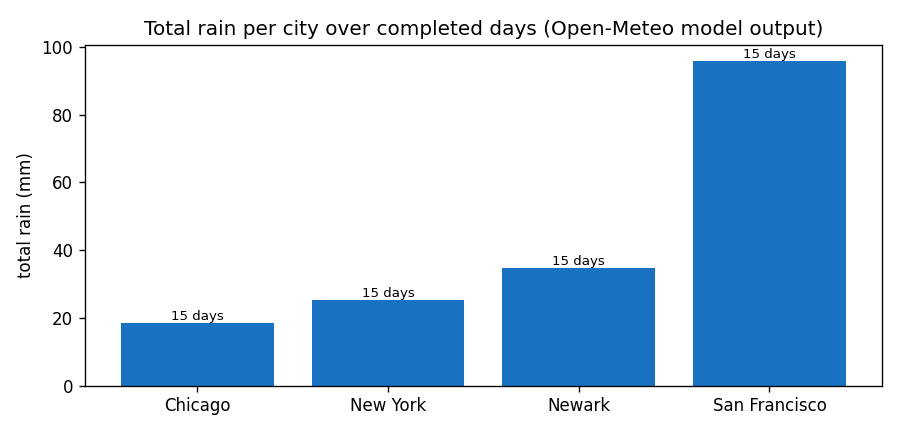
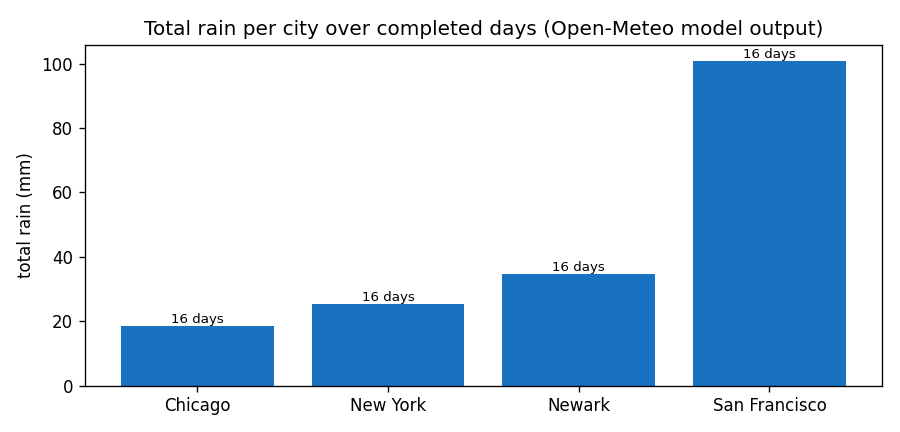
Add day-to-day temperature volatility; refresh data

diff --git a/src/weatherwh/dashboard.py b/src/weatherwh/dashboard.py
@@ -183,6 +183,32 @@ def windiest_days(con, now_utc: dt.datetime | None = None, n: int = 5) -> list[d
     return out[:n]
 
 
+def temperature_volatility(con, now_utc: dt.datetime | None = None) -> list[dict]:
+    """Per city over completed days: mean absolute change in daily average
+    temperature between consecutive days (C) and the largest single-day swing
+    with its date. Gaps in days are not bridged (only calendar-adjacent days
+    count). Model output, current window only."""
+    from .extremes import day_status
+
+    rows = con.execute(
+        "SELECT city, day, avg_temp_c FROM mart_daily_city "
+        "WHERE avg_temp_c IS NOT NULL ORDER BY city, day").fetchall()
+    per: dict[str, list] = {}
+    for city, day, avg in rows:
+        if day_status(city, day, now_utc) == "complete":
+            per.setdefault(city, []).append((day, avg))
+    out = []
+    for city, days in sorted(per.items()):
+        swings = [(abs(b[1] - a[1]), b[0]) for a, b in zip(days, days[1:]) if (b[0] - a[0]).days == 1]
+        if not swings:
+            continue
+        big = max(swings, key=lambda x: (x[0], x[1]))
+        out.append({"city": city, "pairs": len(swings),
+                    "mean_change_c": round(sum(x[0] for x in swings) / len(swings), 2),
+                    "max_change_c": round(big[0], 2), "max_change_day": big[1]})
+    return out
+
+
 def plot_rain_totals(con, out_path, now_utc: dt.datetime | None = None, wet_days: bool = True) -> bool:
     """Total rain per city over completed days only (in-progress days include
     forecast hours and would skew totals). Bars annotated with the number of
@@ -322,6 +348,13 @@ def render_markdown(con, generated_at: dt.datetime | None = None) -> str:
                   "| City | Day | Max wind (km/h) |", "| --- | --- | ---: |"]
         for w in windy:
             lines.append(f"| {w['city']} | {w['day']} | {w['max_wind_kmh']} |")
+    vol = temperature_volatility(con)
+    if vol:
+        lines += ["", "## Day-to-day temperature volatility", "",
+                  "Mean absolute change in daily average temperature between consecutive completed days. Model output, current window only.", "",
+                  "| City | Day pairs | Mean change (C) | Largest swing (C) | On |", "| --- | ---: | ---: | ---: | --- |"]
+        for v in vol:
+            lines.append(f"| {v['city']} | {v['pairs']} | {v['mean_change_c']} | {v['max_change_c']} | {v['max_change_day']} |")
     lines += ["", "![Total rain per city](rain_totals.png)", ""]
     lines += ["", "![Daily temperature range by city](temp_range_by_city.png)", ""]
     severe = extremes.severe_days(con)[:8]

diff --git a/tests/test_extremes.py b/tests/test_extremes.py
@@ -288,3 +288,19 @@ def test_windiest_days_order_and_in_progress_excluded():
     assert dashboard.windiest_days(con, now_utc=now, n=1)[0]["city"] == "B"
     assert dashboard.windiest_days(_empty()) == []
     con.close()
+
+
+def test_temperature_volatility_adjacent_days_only():
+    con = warehouse.connect(":memory:")
+    rows = [{"city": "A", "hour": T0 + dt.timedelta(days=d), "ingested_at": T0,
+             "temperature_2m": t, "precipitation": 0.0, "wind_speed_10m": 5.0}
+            for d, t in [(0, 10.0), (1, 14.0), (2, 13.0), (5, 30.0)]]      # day 5 not adjacent to day 2
+    rows += [{"city": "B", "hour": T0, "ingested_at": T0, "temperature_2m": 5.0,
+              "precipitation": 0.0, "wind_speed_10m": 5.0}]                 # single day: omitted
+    warehouse.refresh(con, rows)
+    now = dt.datetime(2026, 11, 10, 12, tzinfo=dt.timezone.utc)
+    out = dashboard.temperature_volatility(con, now_utc=now)
+    assert out == [{"city": "A", "pairs": 2, "mean_change_c": 2.5, "max_change_c": 4.0,
+                    "max_change_day": dt.date(2026, 11, 2)}]
+    assert dashboard.temperature_volatility(_empty()) == []
+    con.close()

diff --git a/reports/dashboard.md b/reports/dashboard.md
@@ -1,13 +1,17 @@
 # Weather Warehouse - daily dashboard
 
-Generated 2026-11-24 20:05 UTC.
+Generated 2026-11-25 12:04 UTC.
 
 | city | day | avg_temp_c | min_temp_c | max_temp_c | total_precip_mm | max_wind_kmh | hours_observed |
 | --- | --- | --- | --- | --- | --- | --- | --- |
-| Chicago | 2026-11-24 | 1.28 | -1.8 | 4.1 | 0.0 | 19.1 | 24 |
-| New York | 2026-11-24 | 6.35 | 0.6 | 9.9 | 0.0 | 23.5 | 24 |
-| Newark | 2026-11-24 | 6.71 | 1.2 | 10.0 | 0.0 | 24.6 | 24 |
-| San Francisco | 2026-11-24 | 11.45 | 7.9 | 15.3 | 0.4 | 21.7 | 24 |
+| Chicago | 2026-11-25 | 2.96 | 0.8 | 4.9 | 0.0 | 27.9 | 24 |
+| New York | 2026-11-25 | 4.08 | -0.5 | 7.9 | 0.0 | 17.5 | 24 |
+| Newark | 2026-11-25 | 3.96 | -0.6 | 7.8 | 0.0 | 17.3 | 24 |
+| San Francisco | 2026-11-25 | 13.19 | 11.4 | 15.0 | 3.3 | 9.4 | 24 |
+| Chicago | 2026-11-24 | 1.35 | -1.8 | 4.5 | 0.0 | 18.8 | 24 |
+| New York | 2026-11-24 | 6.8 | 2.1 | 10.0 | 0.0 | 23.5 | 24 |
+| Newark | 2026-11-24 | 7.12 | 2.6 | 10.1 | 0.0 | 24.6 | 24 |
+| San Francisco | 2026-11-24 | 11.52 | 7.9 | 14.9 | 5.0 | 10.4 | 24 |
 | Chicago | 2026-11-23 | 1.32 | -1.1 | 5.5 | 0.0 | 16.6 | 24 |
 | New York | 2026-11-23 | 15.39 | 10.2 | 20.9 | 0.0 | 20.6 | 24 |
 | Newark | 2026-11-23 | 15.54 | 10.5 | 21.5 | 0.0 | 20.2 | 24 |
@@ -30,10 +34,6 @@ Generated 2026-11-24 20:05 UTC.
 | San Francisco | 2026-11-19 | 10.85 | 8.8 | 12.7 | 10.1 | 15.9 | 24 |
 | Chicago | 2026-11-18 | 7.84 | 2.6 | 15.5 | 0.0 | 18.4 | 24 |
 | New York | 2026-11-18 | 10.6 | 5.1 | 18.4 | 0.0 | 9.3 | 24 |
-| Newark | 2026-11-18 | 10.43 | 3.1 | 19.3 | 0.0 | 10.5 | 24 |
-| San Francisco | 2026-11-18 | 11.58 | 10.4 | 13.6 | 46.4 | 29.3 | 24 |
-| Chicago | 2026-11-17 | 5.49 | 0.5 | 12.5 | 0.0 | 11.3 | 24 |
-| New York | 2026-11-17 | 8.38 | 3.1 | 14.8 | 0.0 | 11.3 | 24 |
 
 ## Heat / cold exposure (current window)
 
@@ -41,20 +41,10 @@ Hours at or above 30C / at or below 0C and degree-hours beyond each threshold. I
 
 | city | heat hours | cold hours | heat degree-hours | cold degree-hours |
 | --- | ---: | ---: | ---: | ---: |
-| Chicago | 0 | 36 | 0.0 | 26.3 |
-| New York | 0 | 0 | 0.0 | 0.0 |
-| Newark | 0 | 0 | 0.0 | 0.0 |
+| Chicago | 0 | 19 | 0.0 | 20.3 |
+| New York | 0 | 3 | 0.0 | 0.8 |
+| Newark | 0 | 3 | 0.0 | 1.4 |
 | San Francisco | 0 | 0 | 0.0 | 0.0 |
-
-## Unusual days
-
-Completed days only: daily average temperature vs the city's other days (|z| >= 2). Informational: weather, not a data-quality failure.
-
-| city | day | avg temp C | z-score |
-| --- | --- | ---: | ---: |
-| New York | 2026-11-14 | 4.66 | -2.14 |
-| Newark | 2026-11-14 | 4.75 | -2.08 |
-| Newark | 2026-11-13 | 4.81 | -2.05 |
 
 ## Precipitation
 
@@ -64,19 +54,19 @@ Model output in mm over the window; the current day includes forecast hours.
 
 | city | total mm | wet days (>=1 mm) |
 | --- | ---: | ---: |
-| San Francisco | 96.2 | 8 |
+| San Francisco | 104.1 | 10 |
 | Newark | 34.7 | 2 |
 | New York | 25.3 | 2 |
 | Chicago | 18.5 | 5 |
 
-## City leaders, 2026-11-23 (latest day complete in every city)
+## City leaders, 2026-11-24 (latest day complete in every city)
 
 Model output, not station readings.
 
-- Warmest high: Newark (21.5 C)
-- Coldest low: Chicago (-1.1 C)
-- Wettest: San Francisco (0.0 mm)
-- Windiest: New York (20.6 km/h)
+- Warmest high: San Francisco (14.9 C)
+- Coldest low: Chicago (-1.8 C)
+- Wettest: San Francisco (5.0 mm)
+- Windiest: Newark (24.6 km/h)
 
 ## Source freshness
 
@@ -84,10 +74,10 @@ Last successful Open-Meteo fetch per city (empty or failed fetches do not count)
 
 | City | Last successful fetch | Age (h) | Failed fetches since | Latest hour held |
 | --- | --- | ---: | ---: | --- |
-| Chicago | 2026-11-24 15:05:01.359741 | 0.0 | 0 | 2026-11-24 23:00:00 |
-| New York | 2026-11-24 15:05:01.359741 | 0.0 | 0 | 2026-11-24 23:00:00 |
-| Newark | 2026-11-24 15:05:01.359741 | 0.0 | 0 | 2026-11-24 23:00:00 |
-| San Francisco | 2026-11-24 15:05:01.359741 | 0.0 | 0 | 2026-11-24 23:00:00 |
+| Chicago | 2026-11-25 07:04:33.786222 | 0.0 | 0 | 2026-11-25 23:00:00 |
+| New York | 2026-11-25 07:04:33.786222 | 0.0 | 0 | 2026-11-25 23:00:00 |
+| Newark | 2026-11-25 07:04:33.786222 | 0.0 | 0 | 2026-11-25 23:00:00 |
+| San Francisco | 2026-11-25 07:04:33.786222 | 0.0 | 0 | 2026-11-25 23:00:00 |
 
 ## Dry-day streaks (rain under 1 mm)
 
@@ -95,10 +85,10 @@ Consecutive completed days below 1 mm of rain. Model output; illustrative, not a
 
 | City | Current streak (days) | Longest streak (days) |
 | --- | ---: | ---: |
-| Chicago | 1 | 7 |
-| New York | 10 | 10 |
-| Newark | 10 | 10 |
-| San Francisco | 2 | 4 |
+| Chicago | 2 | 7 |
+| New York | 11 | 11 |
+| Newark | 11 | 11 |
+| San Francisco | 0 | 4 |
 
 ## Warmest and coldest completed days
 
@@ -106,10 +96,10 @@ By daily average temperature, within the current data window only. Model output,
 
 | City | Warmest day | Avg C | Coldest day | Avg C | Days compared |
 | --- | --- | ---: | --- | ---: | ---: |
-| Chicago | 2026-11-21 | 12.69 | 2026-11-23 | 1.32 | 15 |
-| New York | 2026-11-23 | 15.39 | 2026-11-14 | 4.66 | 15 |
-| Newark | 2026-11-23 | 15.54 | 2026-11-14 | 4.75 | 15 |
-| San Francisco | 2026-11-11 | 16.03 | 2026-11-23 | 9.25 | 15 |
+| Chicago | 2026-11-21 | 12.69 | 2026-11-23 | 1.32 | 16 |
+| New York | 2026-11-23 | 15.39 | 2026-11-14 | 4.66 | 16 |
+| Newark | 2026-11-23 | 15.54 | 2026-11-14 | 4.75 | 16 |
+| San Francisco | 2026-11-11 | 16.03 | 2026-11-23 | 9.25 | 16 |
 
 ## Week over week temperature
 
@@ -117,10 +107,10 @@ Mean daily average temperature, latest 7 completed days vs the 7 before. Two sho
 
 | City | Latest 7 days (C) | Previous 7 days (C) | Change (C) |
 | --- | ---: | ---: | ---: |
-| Chicago | 8.48 | 4.95 | +3.53 |
-| New York | 12.18 | 8.66 | +3.52 |
-| Newark | 11.93 | 8.53 | +3.40 |
-| San Francisco | 10.28 | 14.25 | -3.97 |
+| Chicago | 7.89 | 4.4 | +3.48 |
+| New York | 11.95 | 8.11 | +3.85 |
+| Newark | 11.75 | 7.97 | +3.78 |
+| San Francisco | 10.43 | 13.49 | -3.06 |
 
 ## Degree days (base 18 C)
 
@@ -128,10 +118,10 @@ Heating degree days sum how far each completed day's average fell below 18 C; co
 
 | City | Days | Heating degree days | Cooling degree days |
 | --- | ---: | ---: | ---: |
-| Chicago | 15 | 167.8 | 0.0 |
-| New York | 15 | 112.1 | 0.0 |
-| Newark | 15 | 114.9 | 0.0 |
-| San Francisco | 15 | 83.1 | 0.0 |
+| Chicago | 16 | 184.5 | 0.0 |
+| New York | 16 | 123.3 | 0.0 |
+| Newark | 16 | 125.8 | 0.0 |
+| San Francisco | 16 | 89.6 | 0.0 |
 
 ## Wettest completed days
 
@@ -156,6 +146,17 @@ Maximum hourly wind speed. Model output, current window only.
 | Chicago | 2026-11-11 | 29.4 |
 | San Francisco | 2026-11-18 | 29.3 |
 | Newark | 2026-11-09 | 26.8 |
+
+## Day-to-day temperature volatility
+
+Mean absolute change in daily average temperature between consecutive completed days. Model output, current window only.
+
+| City | Day pairs | Mean change (C) | Largest swing (C) | On |
+| --- | ---: | ---: | ---: | --- |
+| Chicago | 15 | 1.99 | 7.83 | 2026-11-23 |
+| New York | 15 | 2.03 | 8.59 | 2026-11-24 |
+| Newark | 15 | 1.97 | 8.42 | 2026-11-24 |
+| San Francisco | 15 | 0.89 | 2.27 | 2026-11-24 |
 
 ![Total rain per city](rain_totals.png)
 
